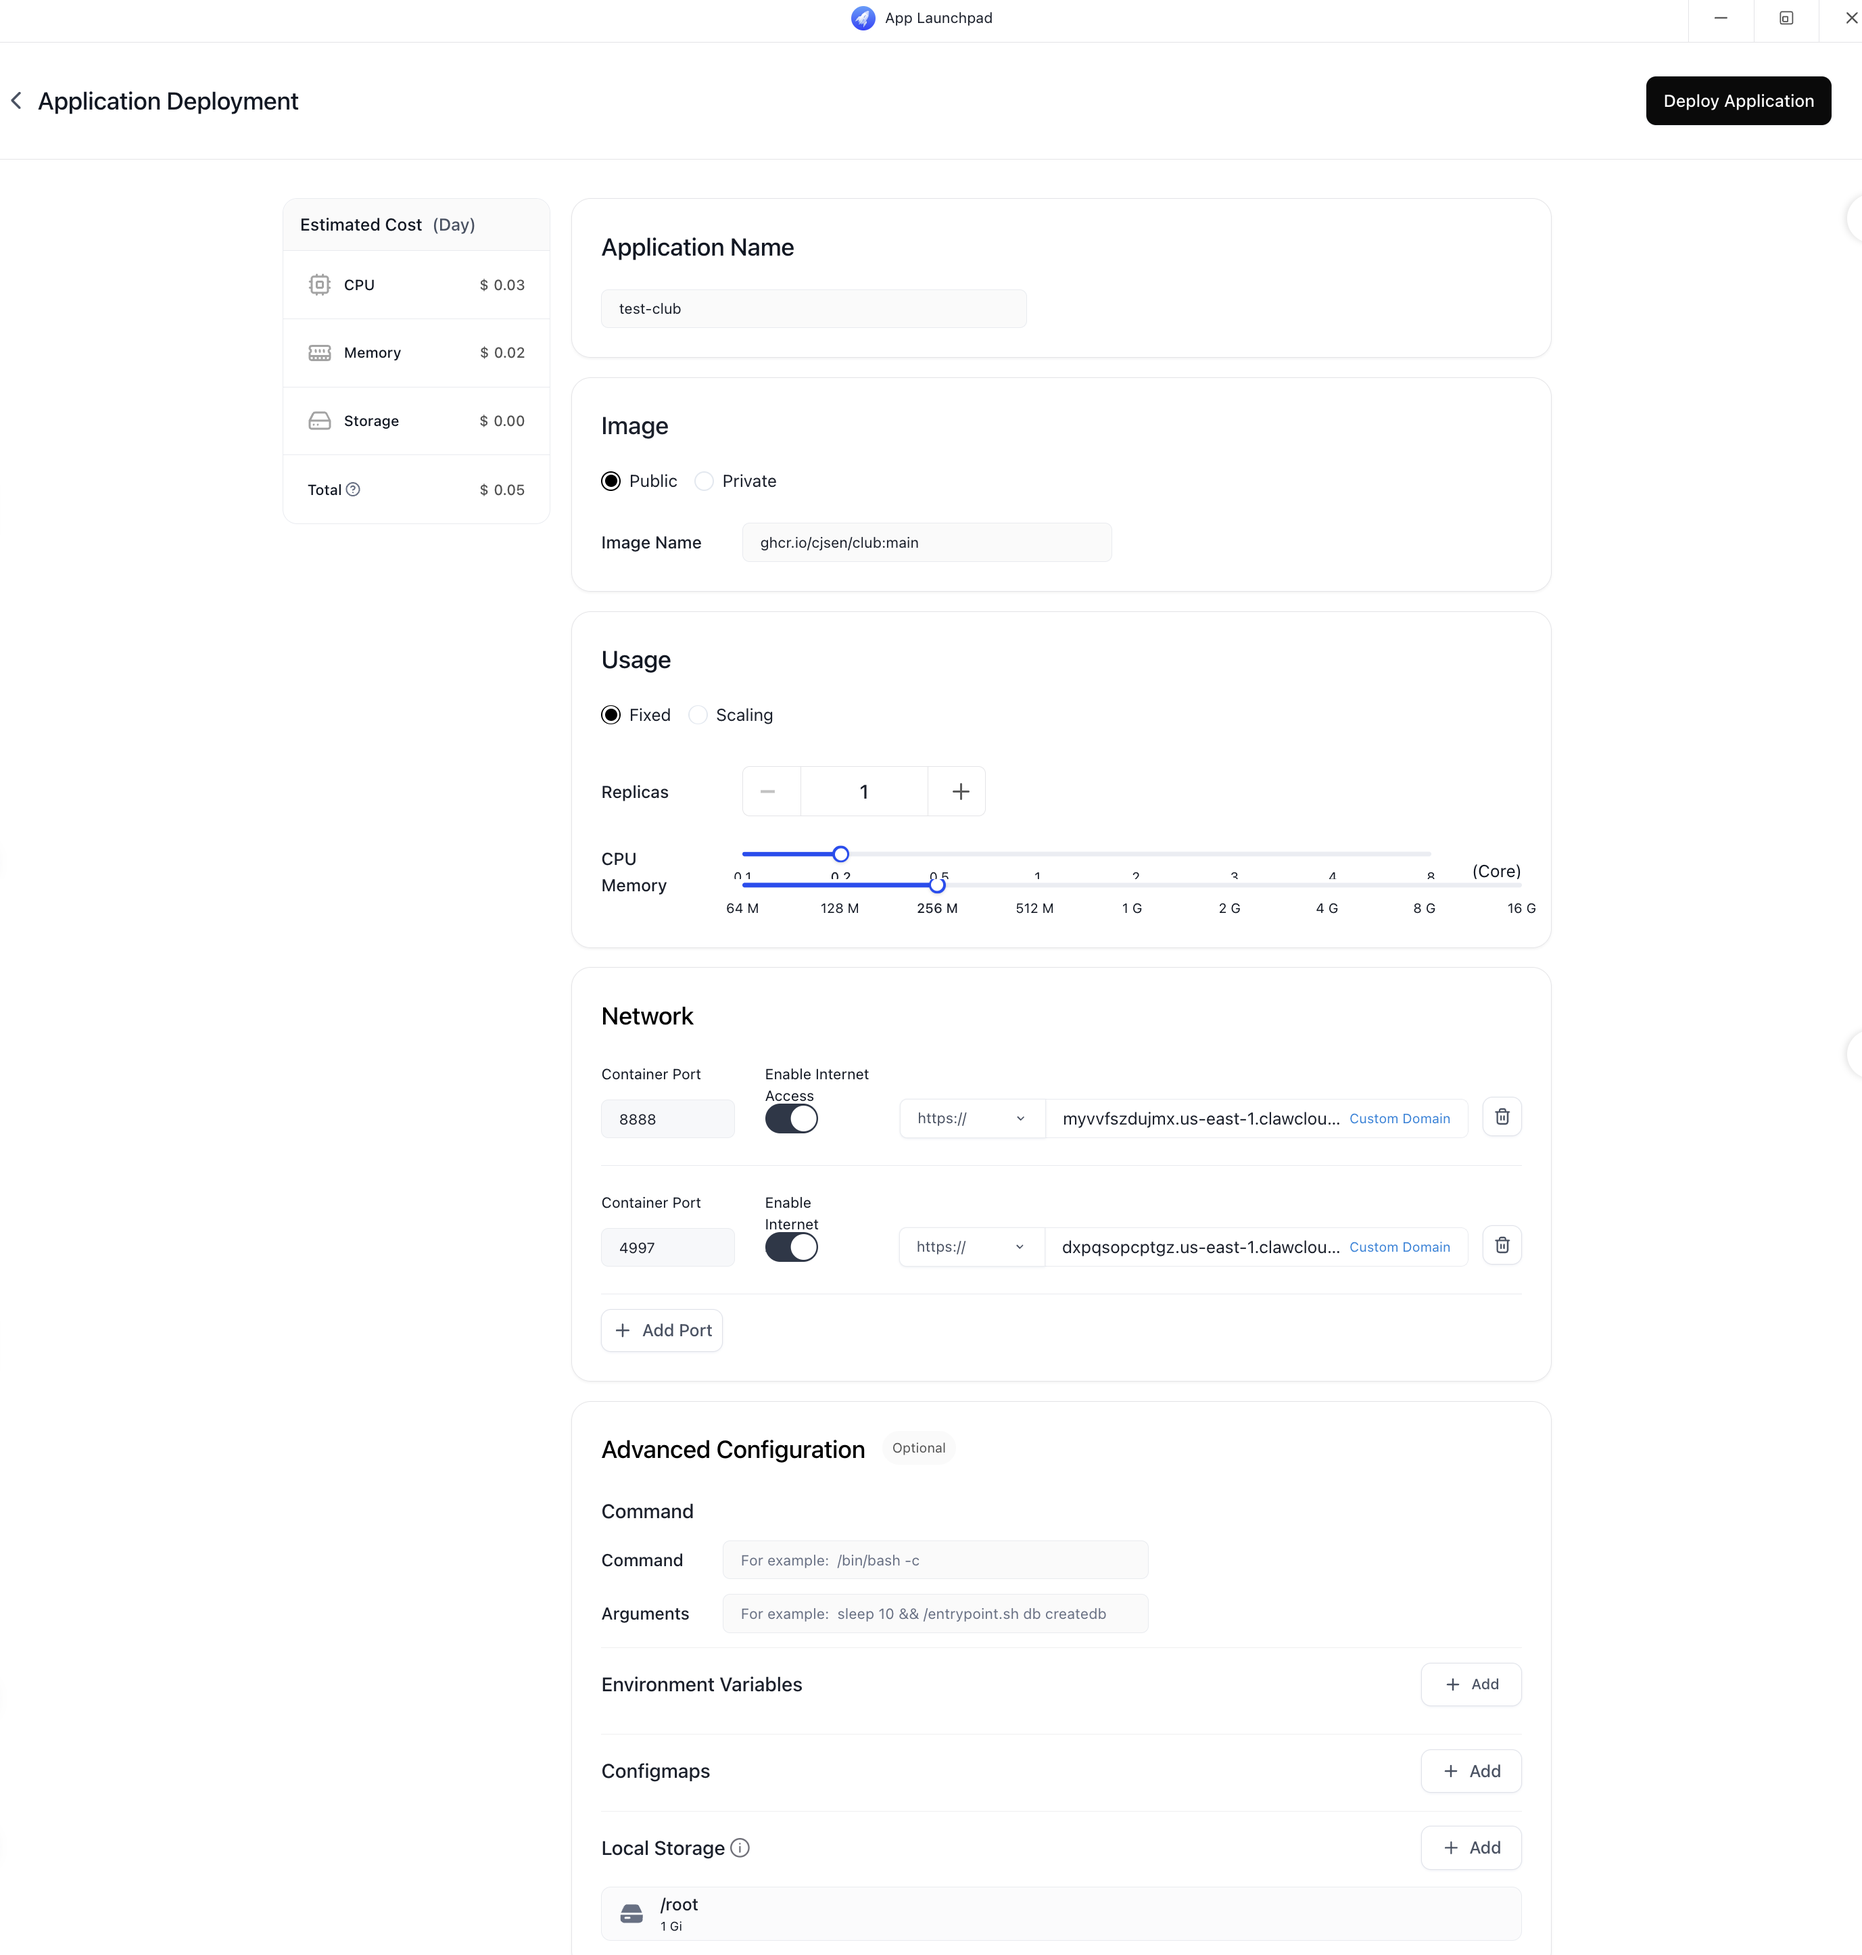
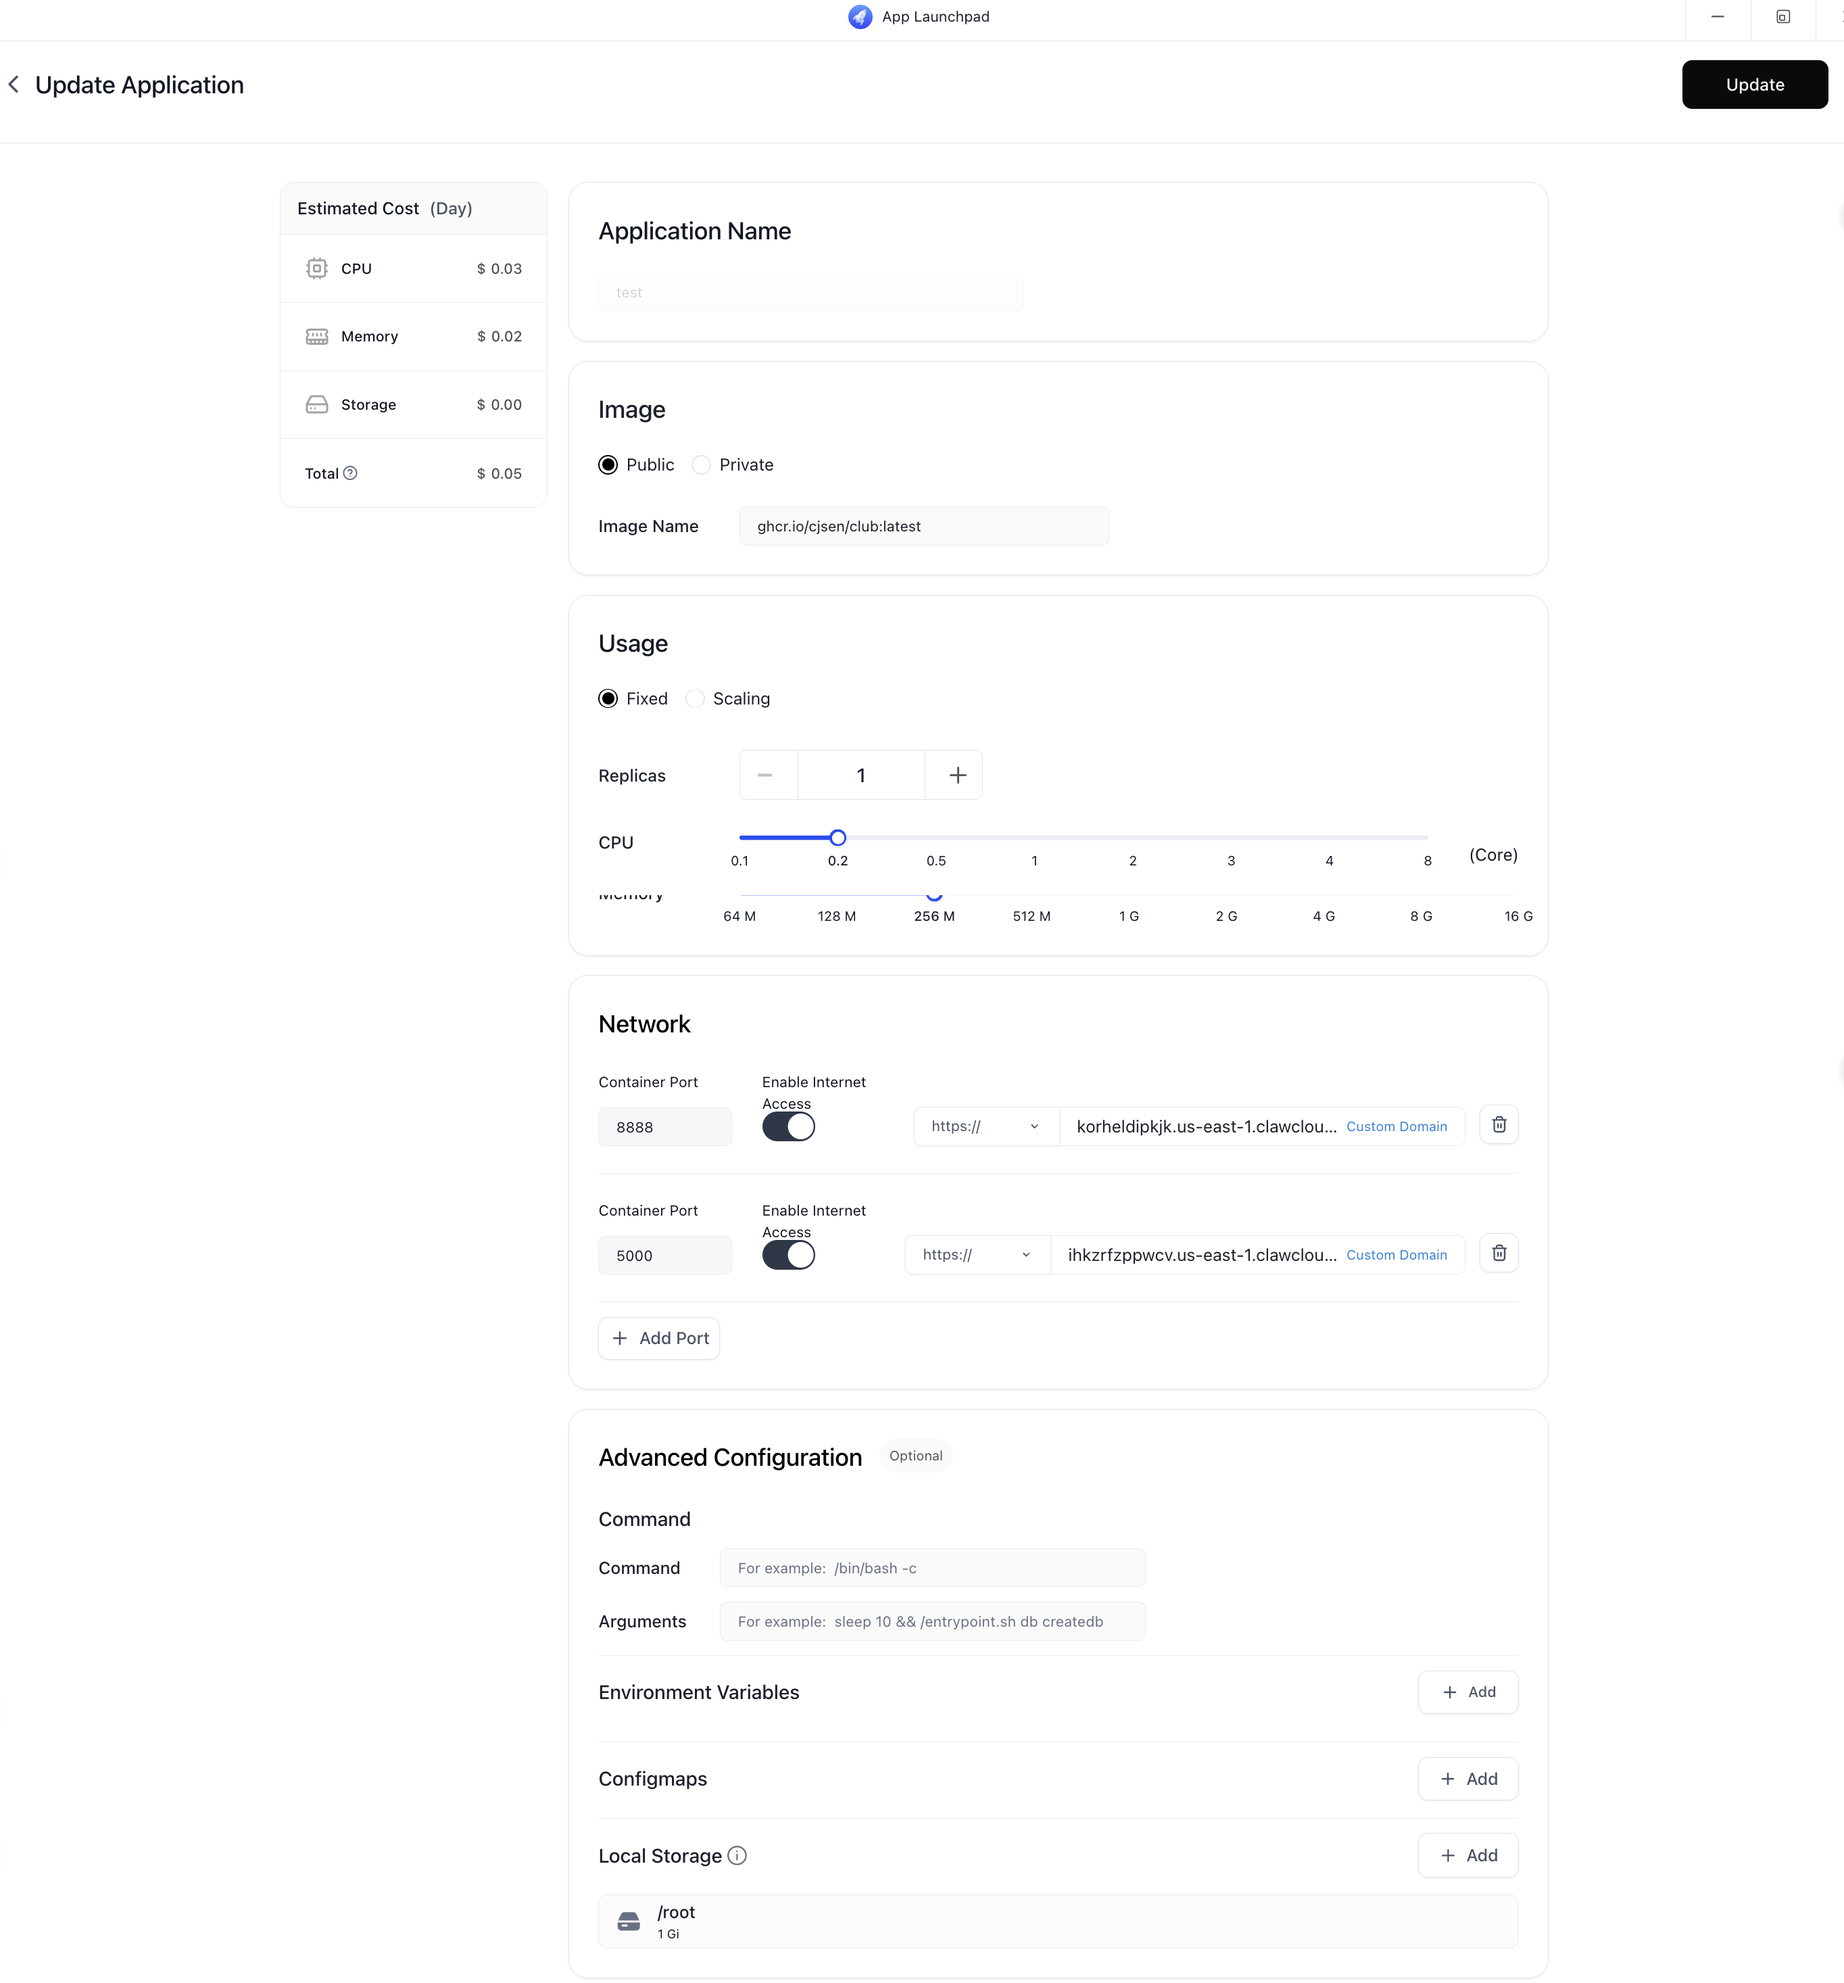
更新一下描述图片。

diff --git a/readme.md b/readme.md
@@ -21,19 +21,21 @@
    - CPU 和内存根据自身需求调整，按照图上来的话，每天的费用大概在 $0.05/day。每月五美元完全够用。
    - 端口开放 5000（dufs）和 8888（webssh），并打开 "Enable Internet Access" 按钮。
    - 挂载 /root 目录，大小自己调整。
-   - 点击右上角 "deploy application"，等待容器启动。
+   - 点击右上角 "deploy application"，等待容器启动(可能会超时，镜像比较大，没关系，直接返回在点进来就好了)
    ![alt text](./static/photos/deploy.png)
 
 2. **访问服务**：
+   ![alt text](./static/photos/network.png)
    访问面板，点击对应的 public address，即可访问服务。
    - webssh：
       - hostname: localhost
       - username:club
       - password:123456
+      ![alt text](./static/photos/webssh.png)
    - dufs：
       - username:club
       - password:123456
-   ![alt text](./static/photos/image.png)
+      ![alt text](./static/photos/dufs.png)
 
 ## 安全提醒（务必阅读）
 
